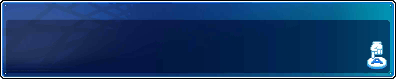
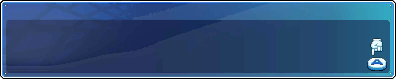
=Increased the MapleStory previewer accuracy by a crazy amount! +Added source images for the MapleStory previewer. ~Upgraded the MapleStory font to include a few roman numerals. ~The previewer now properly displays curly quotes, ellipses and roman numerals from 1 to 3. ~Replaced the template image w

diff --git a/game_maple_story_3ds/Handler.cs b/game_maple_story_3ds/Handler.cs
@@ -27,7 +27,25 @@ namespace game_maple_story_3ds
 			// Control
 			["\\["] = "[",
 			["\\]"] = "]",
-			["[NAME:B]"] = "PlayerName"
+			["[NAME:B]"] = "<PlayerName>",
+		};
+
+		Dictionary<string, string> _previewPairs = new Dictionary<string, string>
+		{
+			// Control
+			["\\["] = "[",
+			["\\]"] = "]",
+			["[NAME:B]"] = "‹NameMugi›",
+
+			// Special
+			["…"] = "\x85",
+			["‘"] = "\x91",
+			["’"] = "\x92",
+			["“"] = "\x93",
+			["”"] = "\x94",
+			["Ⅰ"] = "\x95",
+			["Ⅱ"] = "\x96",
+			["Ⅲ"] = "\x97",
 		};
 
 		BitmapFontHandler bfh = new BitmapFontHandler(Resources.MainFont);
@@ -44,29 +62,33 @@ namespace game_maple_story_3ds
 
 		public Bitmap GeneratePreview(string rawString)
 		{
+			Bitmap background = new Bitmap(Resources.background);
+
 			Bitmap textBox = new Bitmap(Resources.blank);
 			int boxes = (int)Math.Ceiling((double)rawString.Split('\n').Length / 3);
 
-			Bitmap img = new Bitmap(textBox.Width, textBox.Height * boxes);
+			int txtOffsetX = 2, txtOffsetY = 2;
+			Bitmap img = new Bitmap(400, Math.Max(textBox.Height * boxes, background.Height) + (boxes * txtOffsetY) + txtOffsetY);
 
 			using (Graphics gfx = Graphics.FromImage(img))
 			{
 				gfx.SmoothingMode = SmoothingMode.HighQuality;
 				gfx.InterpolationMode = InterpolationMode.Bicubic;
+				gfx.PixelOffsetMode = PixelOffsetMode.HighQuality;
+
+				gfx.DrawImage(new Bitmap(Resources.background), 0, 0);
 
 				for (int i = 0; i < boxes; i++)
-					gfx.DrawImage(textBox, 0, i * textBox.Height);
+					gfx.DrawImage(textBox, 0 + txtOffsetX, (i * textBox.Height) + ((i + 1) * txtOffsetY));
 
-				Rectangle rectText = new Rectangle(8, 19, 400, 80);
+				Rectangle rectText = new Rectangle(8 + txtOffsetX, 19 + txtOffsetY, 400, 80);
 
-				string str = rawString.Replace("\\[NAME:B\\]", "‹NameMugi›");
-				str = str.Replace("[NAME:B]", "‹NameMugi›");
-				str = str.Replace("’", "'");
+				string str = _previewPairs.Aggregate(rawString, (s, pair) => s.Replace(pair.Key, pair.Value));
 				float scaleDefault = 0.625f;
 				float scaleCurrent = scaleDefault;
 				float x = rectText.X, pX = x;
 				float y = rectText.Y, pY = y;
-				float yAdjust = -2;
+				float yAdjust = -2.75f;
 				int box = 0, line = 0;
 				bool newBox = true;
 				Color colorDefault = Color.FromArgb(255, 255, 255, 255);
@@ -84,7 +106,12 @@ namespace game_maple_story_3ds
 					BitmapFontCharacter bfc = bfh.GetCharacter(c);
 
 					// Handle control codes
-					if (c == '<') // Orange
+					if (c == '‹') // Player Name
+					{
+						colorCurrent = Color.FromArgb(255, 254, 254, 149);
+						continue;
+					}
+					else if (c == '<') // Orange
 					{
 						colorCurrent = Color.FromArgb(255, 255, 150, 0);
 						continue;
@@ -94,26 +121,14 @@ namespace game_maple_story_3ds
 						colorCurrent = Color.FromArgb(255, 131, 237, 63);
 						continue;
 					}
-					else if (c == '\\' && c2 == '[') // Purple
+					else if (c == '[') // Purple
 					{
 						colorCurrent = Color.FromArgb(255, 255, 100, 255);
-						i++;
 						continue;
 					}
-					else if (c == '>' || c == '}' || c == '›') // Reset
+					else if (c == '>' || c == '}' || c == '›' || c == ']') // Reset
 					{
 						colorCurrent = colorDefault;
-						continue;
-					}
-					else if (c == '\\' && c2 == ']') //Reset
-					{
-						colorCurrent = colorDefault;
-						i++;
-						continue;
-					}
-					else if (c == '‹') //Player name
-					{
-						colorCurrent = Color.FromArgb(255, 254, 254, 149);
 						continue;
 					}
 					else if (c == '\n') // The previewer will not break to a new line when the line hits the end of the text box since the game doesn't do this.
@@ -131,7 +146,7 @@ namespace game_maple_story_3ds
 						newBox = true;
 						x = rectText.X;
 						pX = x;
-						y = rectText.Y + textBox.Height * box;
+						y = rectText.Y + textBox.Height * box + (txtOffsetY * box);
 						pY += y;
 					}
 					else if (line % 3 != 0)

diff --git a/game_maple_story_3ds/Properties/Resources.Designer.cs b/game_maple_story_3ds/Properties/Resources.Designer.cs
@@ -63,6 +63,16 @@ namespace game_maple_story_3ds.Properties {
         /// <summary>
         ///   Looks up a localized resource of type System.Drawing.Bitmap.
         /// </summary>
+        internal static System.Drawing.Bitmap background {
+            get {
+                object obj = ResourceManager.GetObject("background", resourceCulture);
+                return ((System.Drawing.Bitmap)(obj));
+            }
+        }
+        
+        /// <summary>
+        ///   Looks up a localized resource of type System.Drawing.Bitmap.
+        /// </summary>
         internal static System.Drawing.Bitmap blank {
             get {
                 object obj = ResourceManager.GetObject("blank", resourceCulture);
@@ -86,16 +96,6 @@ namespace game_maple_story_3ds.Properties {
         internal static System.Drawing.Bitmap MainFont {
             get {
                 object obj = ResourceManager.GetObject("MainFont", resourceCulture);
-                return ((System.Drawing.Bitmap)(obj));
-            }
-        }
-        
-        /// <summary>
-        ///   Looks up a localized resource of type System.Drawing.Bitmap.
-        /// </summary>
-        internal static System.Drawing.Bitmap template {
-            get {
-                object obj = ResourceManager.GetObject("template", resourceCulture);
                 return ((System.Drawing.Bitmap)(obj));
             }
         }
